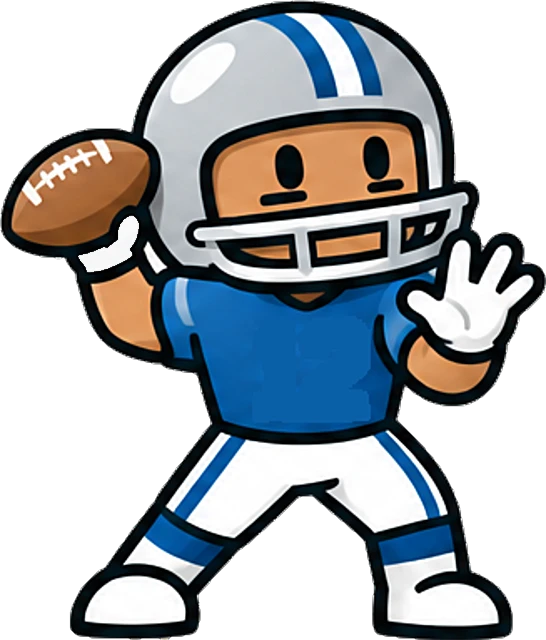
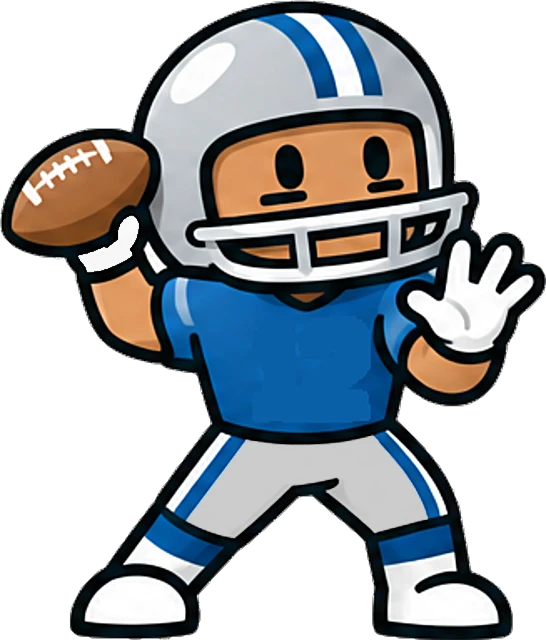
2.24.5: cards - every pose wears the team's pants

Changed region(s): [[0.3425, 0.6562, 0.7784, 0.8438]]

diff --git a/CHANGELOG.md b/CHANGELOG.md
@@ -20,6 +20,16 @@ CLAUDE.md.
 
 ## [Unreleased]
 
+## [2.24.5] - 2026-11-13
+
+Test site only.
+
+### Fixed
+- Cards: every pose wears the team's pants. The thrower's were drawn white on the sheet and the pointing
+  receiver's faded most of the way to white, so those two stood out from the other twelve. Both are darkened
+  to the helmet's grey when the sprites are built (`tools/cards/poses.json`, "grey"). Reported from the
+  owner's phone.
+
 ## [2.24.4] - 2026-11-13
 
 Test site only.
